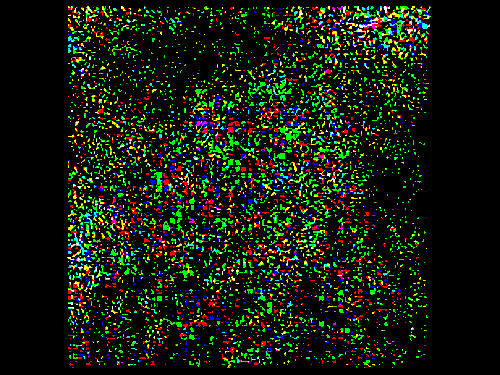
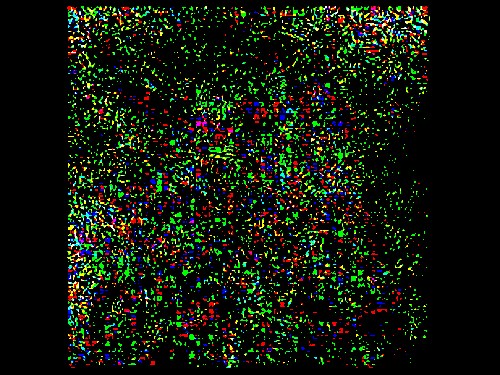
Made clip/norm parameters changeable in AdversarialGenerator init

diff --git a/adversarial.py b/adversarial.py
@@ -7,11 +7,18 @@ from typing import Union
 
 
 class AdversarialGenerator:
+    """
+    final_clip_epsilon: float or None, sets epsilon value for clipping of final noise tensor
+    clip_grad_norm: float or None: sets delta grad norm clip value
+    """
     def __init__(self,
                  model=regnet_x_800mf,
                  weights=RegNet_X_800MF_Weights.IMAGENET1K_V2,
-                 epsilon=0.2):
-        self.epsilon = epsilon
+                 final_clip_epsilon=0.2,
+                 clip_grad_norm=None
+                 ):
+        self.final_clip_epsilon = final_clip_epsilon
+        self.clip_grad_norm = clip_grad_norm
         self.model = model(weights=weights)
         self.model.eval()
         self.preprocess = weights.transforms()
@@ -36,17 +43,20 @@ class AdversarialGenerator:
             - Run preprocessed image with noise through model
             - Optimizer step to reduce loss wrt target label and increase loss wrt original label
         """
-        num_iterations = 200
+        num_iterations = 100
         delta = torch.zeros_like(image, requires_grad=True)
-        optimizer = torch.optim.SGD([delta], lr=5e-3)
+        optimizer = torch.optim.SGD([delta], lr=1e-2)
         for i in range(num_iterations):
             optimizer.zero_grad()
             adv_image = self.preprocess(image + delta)
             out = self.model(torch.unsqueeze(adv_image, dim=0))
             loss = F.cross_entropy(out, torch.tensor([target_label])) - F.cross_entropy(out, torch.tensor([orig_label]))
             loss.backward()
+            if self.clip_grad_norm is not None:
+                torch.nn.utils.clip_grad_norm_(delta, self.clip_grad_norm)
             optimizer.step()
-        return torch.clamp(delta.nan_to_num(), -self.epsilon, self.epsilon)
+        if self.final_clip_epsilon is not None:
+            return torch.clamp(delta.nan_to_num(), -self.final_clip_epsilon, self.final_clip_epsilon)
         
     def forward_with_adversarial(self, image: Image.Image, target_label: int) -> tuple[
             torch.return_types.topk, torch.Tensor, torch.Tensor, torch.return_types.topk]:

diff --git a/test_adversarial.py b/test_adversarial.py
@@ -7,8 +7,7 @@ from adversarial import AdversarialGenerator
 
 def test_forward():
     adversarial_generator = AdversarialGenerator(model=regnet_x_800mf,
-                                                 weights=RegNet_X_800MF_Weights.IMAGENET1K_V2,
-                                                 epsilon=0.1)
+                                                 weights=RegNet_X_800MF_Weights.IMAGENET1K_V2)
     orig_image = Image.open("./static/n01677366_common_iguana.jpg")
     topk_preds = adversarial_generator.forward(orig_image)
     assert torch.all(
@@ -17,10 +16,9 @@ def test_forward():
 
 
 def test_forward_with_adversarial():
-    target_labels = [450, 192, 314]
+    target_labels = [450, 314, 309]
     adversarial_generator = AdversarialGenerator(model=regnet_x_800mf,
-                                                 weights=RegNet_X_800MF_Weights.IMAGENET1K_V2,
-                                                 epsilon=0.1)
+                                                 weights=RegNet_X_800MF_Weights.IMAGENET1K_V2)
     orig_image = Image.open("./static/n01677366_common_iguana.jpg")
     for t in target_labels:
         orig_preds, noise, adv_image, adv_preds = adversarial_generator.forward_with_adversarial(orig_image,

diff --git a/README.md b/README.md
@@ -15,5 +15,5 @@ Otherwise, the adversarial example generator can be used through the `Adversaria
 - Explore training of noise tensor further to improve hyperparameters and architectural improvements
 - Add more unit tests to make code more robust to changes
 - Add more comprehensive end-to-end tests that better examine robustness across different images and target labels
-- Evaluate effect of adjusting epsilon value (clipping of noise tensor) vs. target label confidence and other metrics
+- Evaluate effect of adjusting 1. epsilon value for clipping of noise tensor and 2. delta grad norm clip value, versus target label confidence and other metrics
 - Improve code documentation: docstrings, type annotations where missing, etc.
